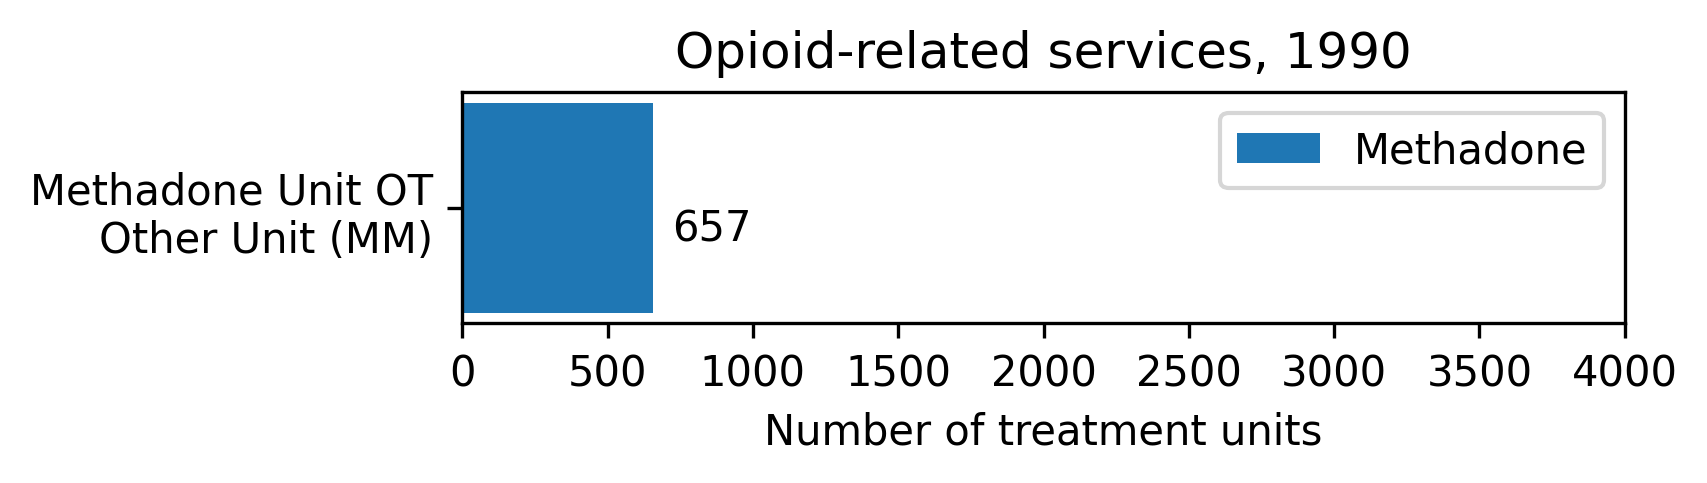
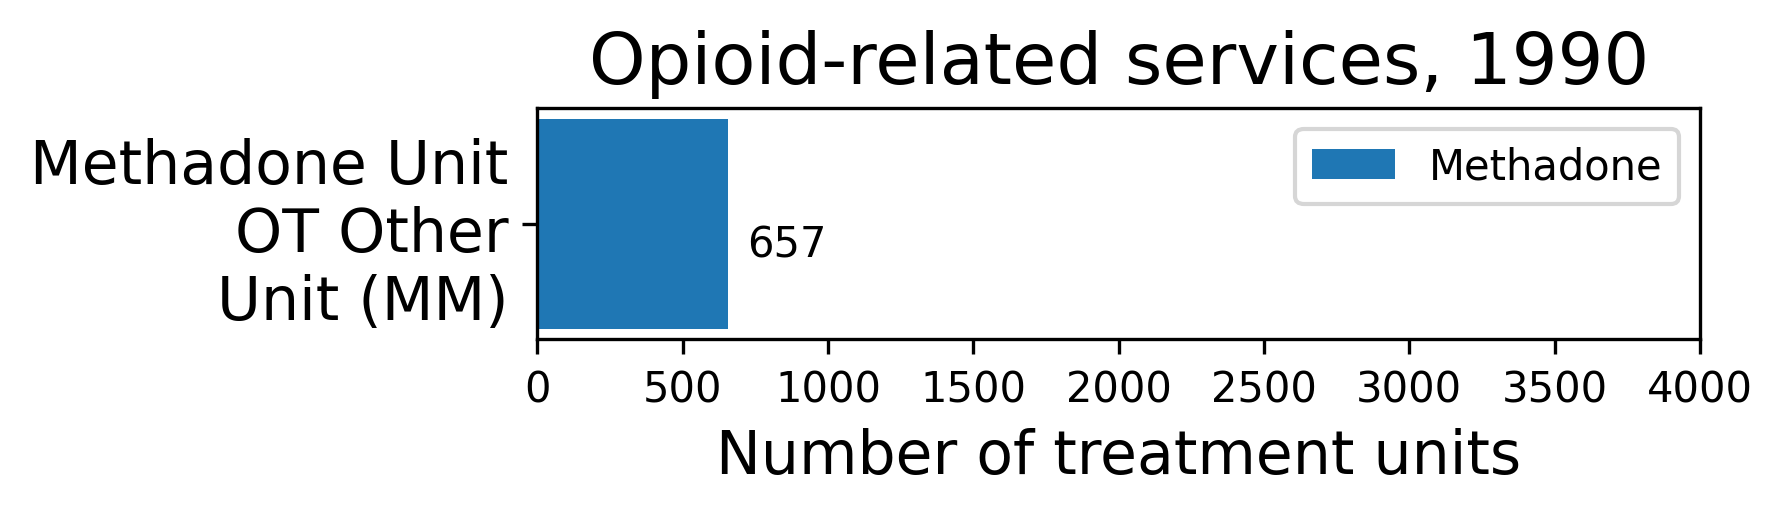
plots font size change

diff --git a/MOUD_scraping/plot_keys.py b/MOUD_scraping/plot_keys.py
@@ -40,14 +40,17 @@ def clean_key(keys, counts):
     counts = [count for count in counts if count!= 0]
     return (keys, counts)
 
+n = 2 #number of words before line change
 data = [([], []), ([], []), ([], [])] #(keys, counts)
 for key, val in keys_dict.items():
     if val:
         i = 0
-        while i < 3:
+        while i < len(MEDS):
             if (MEDS[i] in val) or (MEDS[i].lower() in val):
-                keyname = '{0} ({1})'.format(val, key).split()
-                data[i][0].append('\n'.join([' '.join(keyname[i:i+3]) for i in range(0, len(keyname), 3)]))
+                #keyname = '{0} ({1})'.format(val, key).split()
+                keyname = '{0} ({1})'.format(val, key).replace('/', '/ ').split()
+				#data[i][0].append('\n'.join([' '.join(keyname[i:i+n]) for i in range(0, len(keyname), n)]))
+                data[i][0].append('\n'.join([' '.join(keyname[i:i+n]).replace('/ ', '/') for i in range(0, len(keyname), n)]))
                 data[i][1].append(count_keys(key))
             i += 1
 
@@ -55,9 +58,9 @@ for (key, count), med in zip(data, MEDS):
     if not key:
         print('Keys related to {} not found.'.format(med))
 
-data_cleaned = [0, 0, 0]
+data_cleaned = [0] * len(MEDS)
 i = 0
-while i < 3:
+while i < len(MEDS):
     data_cleaned[i] = clean_key(data[i][0], data[i][1])
     i += 1
 for (key, count), (key_cleaned, count_cleaned), med in zip(data, data_cleaned, MEDS):
@@ -70,6 +73,8 @@ print('\n')
 
 
 #plot
+#‘xx-small’, ‘x-small’, ‘small’, ‘medium’, ‘large’, ‘x-large’, ‘xx-large’
+
 def autolabel(rects):
     for rect in rects:
         height = rect.get_width()
@@ -77,13 +82,15 @@ def autolabel(rects):
         ax.annotate('{}'.format(height), xy=(height + 200, y + barwidth/2 + 0.1), ha='center', va='bottom')
 
 barwidth = 0.5
-num_keys = len(data_cleaned[0][1]) + len(data_cleaned[1][1]) + len(data_cleaned[2][1])
+num_keys = 0
+labels = []
+for med_data in data_cleaned:
+	num_keys += len(med_data[0])
+	labels += med_data[0]
+
 plt.rcdefaults()
 fig, ax = plt.subplots(figsize = (5, num_keys))
-
-labels = data_cleaned[0][0] + data_cleaned[1][0] + data_cleaned[2][0]
 y_pos = np.arange(len(labels))
-
 y_count = 0
 for (key, count), med in zip(data_cleaned, MEDS):
 	if count:
@@ -92,11 +99,15 @@ for (key, count), med in zip(data_cleaned, MEDS):
 	    y_count += len(count)
 
 ax.set_yticks(y_pos)
-ax.set_yticklabels(labels)
+ax.set_yticklabels(labels, fontdict = {'fontsize': 'x-large'}) #15
 ax.invert_yaxis()  # labels read top-to-bottom
-ax.set_xlabel('Number of treatment units')
-ax.set_title('Opioid-related services, {}'.format(YEAR))
+ax.set_xlabel('Number of treatment units', fontdict = {'fontsize': 'x-large'})
+ax.set_title('Opioid-related services, {}'.format(YEAR), fontdict = {'fontsize': 'xx-large'})
+
 
 plt.xlim(0, 4000)
 plt.legend()
 plt.savefig('{0}/{0}_stats.png'.format(YEAR), bbox_inches = 'tight', dpi = 300)
+
+
+
